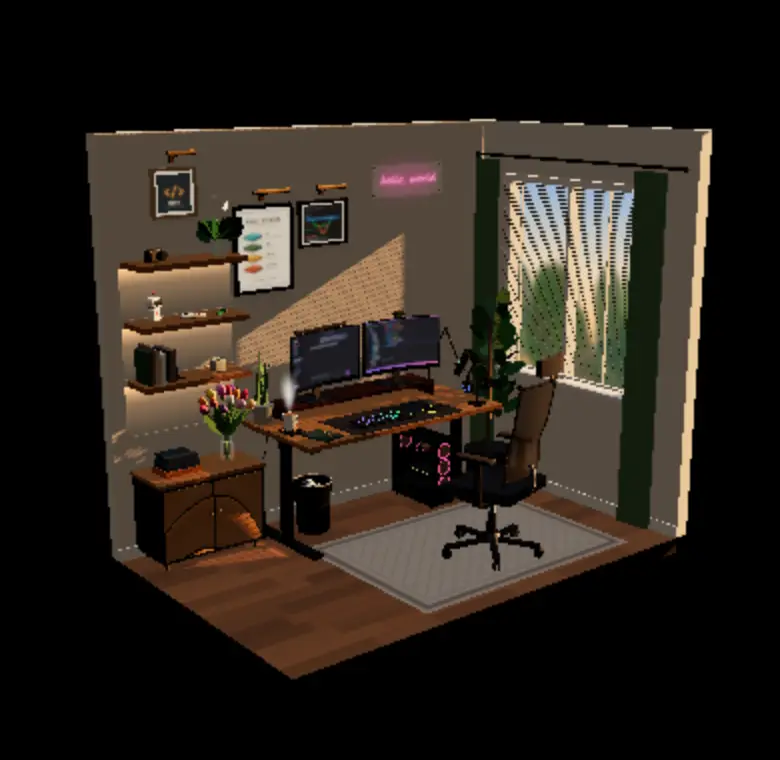
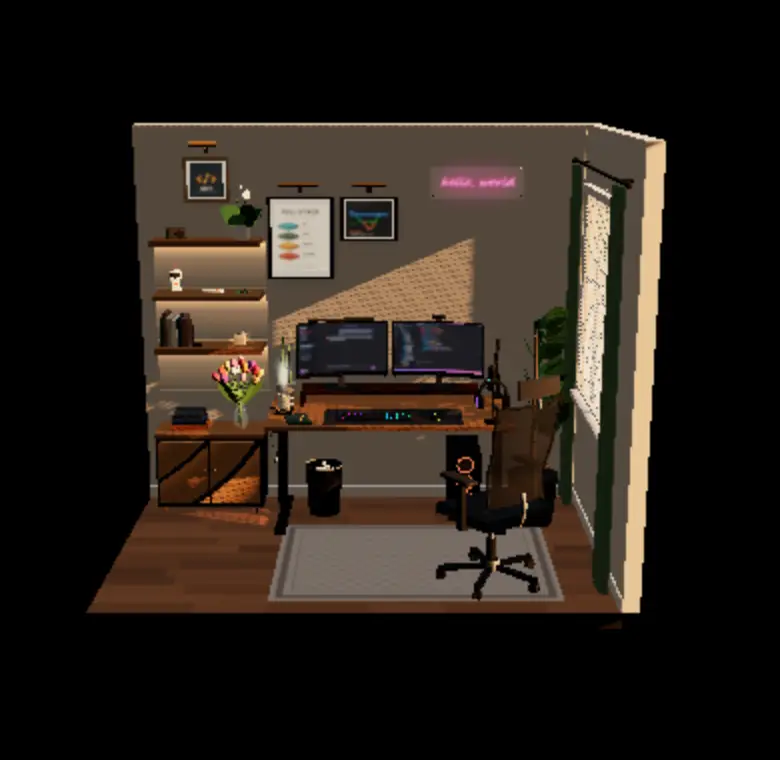
Start the 3D studio front-on instead of turned to the left
The camera started about 39 degrees to the left of the room, so every
load showed it angled. It now starts straight in front of the desk at
the same distance and height (the view used for the README), and the
chair starts to the right so it doesn't hide the monitors.

Re-captured the three loading stills to match (without the overlay
buttons). Lint and build pass; phone touch suite passes.

diff --git a/src/components/models/hero_models/HeroExperience.jsx b/src/components/models/hero_models/HeroExperience.jsx
@@ -69,7 +69,7 @@ const HeroExperience = () => {
       role="img"
       aria-label="3D model of Alex's developer studio: an oak desk with two curved monitors showing Claude and VS Code, an RGB keyboard, a bookshelf with plants, a neon sign reading hello, world, and late-afternoon sun through the blinds."
       shadows
-      camera={{ position: [target[0] - 4.0 * pull, target[1] + 1.65 * pull, target[2] + 5.0 * pull], fov: 35 }}
+      camera={{ position: [target[0], target[1] + 1.65 * pull, target[2] + 6.4 * pull], fov: 35 }} // starts straight in front of the desk
       gl={{ powerPreference: 'high-performance', antialias: !isMobile }} // Disable antialiasing on mobile for better performance
       dpr={isMobile ? 1 : [1, 1.5]} // Lower resolution on mobile, capped at 1.5x elsewhere
       performance={{ min: 0.5 }} // Allow performance scaling

diff --git a/src/components/models/hero_models/studio/Studio.jsx b/src/components/models/hero_models/studio/Studio.jsx
@@ -117,7 +117,7 @@ const Studio = ({ focused = false, onFocusScreen }) => {
 
       <Desk />
       <Monitors onSelect={onFocusScreen} />
-      <Chair position={[0.2, 0, 0.72]} visible={!focused} />
+      <Chair position={[0.6, 0, 0.85]} visible={!focused} />
       <Shelf position={[-1.22, 0, -0.6]} />
       <FloorPlant position={[0.95, 0, -0.12]} />
       <PcTower position={[0.5, 0, -0.3]} />
